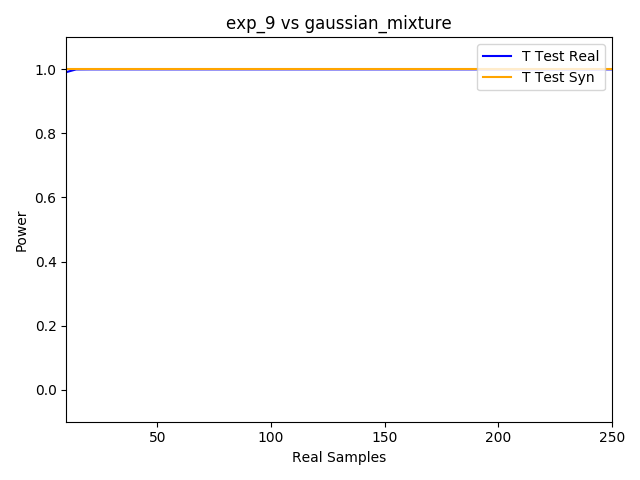
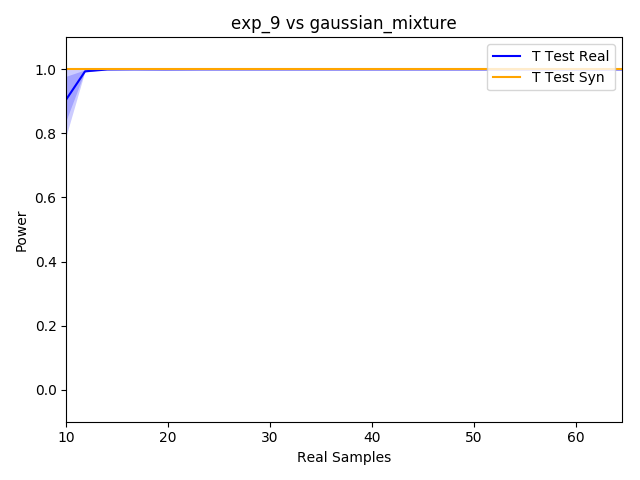
Rewrote README and replaced buggy true univariate sample size images in statistical testing.

diff --git a/README.md b/README.md
@@ -1,7 +1,87 @@
 # Synthetic Statistics
-This project explores the application of generative modeling techniques to statistical testing.
+This research project explores the application of generative modeling techniques to power analyses and statistical testing.
 
-### Objective
+## Synthetic Power Analyses
+> In a scientific study, one typically aims for a statistical power of 80%, implying that a true effect in the population is
+> detected with a 80% chance. Power computations allow researchers to compute the minimal number of subjects to obtain the
+> aimed statistical power. As such, power calculations avoid spending time and money on studies that are futile, and also
+> prevent wasting time and money adding extra subjects, when sufficient power was already available.
+
+> Mounting evidence over the last few years suggest that published neuroscience research suffer from low power, and especially
+> for published fMRI experiments. Not only does low power decrease the chance of detecting a true effect, it also reduces the
+> chance that a statistically significant result indicates a true effect ([Ioannidis, 2005](http://journals.plos.org/plosmedicine/article?id=10.1371/journal.pmed.0020124)). Put another way, findings with the
+> least power will be the least reproducible, and thus a (prospective) power analysis is a critical component of any paper.
+
+Source: [Power and sample size calculations for fMRI studies based on the prevalence of active peaks](https://www.biorxiv.org/content/biorxiv/early/2016/04/20/049429.full.pdf)
+
+> Our current scan rate is $563 per hour.
+
+Source: [University of Michigan Functional Magnetic Resonance Imaging Laboratory](http://fmri.research.umich.edu/users/billing.php)
+
+### Proposal
+Synthetic functional magnetic resonance images generated with [state-of-the-art generative modeling techniques](https://github.com/BlissChapman/ICW-fMRI-GAN) could serve as a low-cost replacement for pilot data used in power analyses.
+
+**WANTED:** the smallest sample size needed for a study with 80% power
+**NOT WANTED:**
+1) Wasted time/money on futile experiments
+2) Wasted resources on extra subjects
+3) Underpowered studies
+
+### Experiments
+We explore the proposal through univariate, multivariate, and neuroimaging experiments. In the figures below, if the synthetic and real curves are the same shape, then using synthetic data as a replacement for pilot data will yield a similar sample size requirement estimate as we would have achieved by using real data. Since we can synthesize cognitive process label combinations that do not exist in the original dataset, we can formulate power analyses with data that has never been collected before.
+
+###### [NULL] Gaussian(0, 1) vs Gaussian(0, 1) w/ 100k True Samples
+![](examples/test_time_sample_size_vs_power/gaussian_0_vs_gaussian_0.png)
+
+###### [NULL] Gaussian(0, 1) vs Gaussian(0, 1) w/ 100 True Samples
+![](examples/test_time_sample_size_vs_power/100_gaussian_0_vs_gaussian_0.png)
+
+###### [ALTERNATIVE] Gaussian(0, 1) vs Gaussian(1, 1) w/ 100k True Samples
+![](examples/test_time_sample_size_vs_power/gaussian_0_vs_gaussian_1.png)
+
+###### [ALTERNATIVE] Gaussian(0, 1) vs Gaussian(1, 1) w/ 100 True Samples
+![](examples/test_time_sample_size_vs_power/100_gaussian_0_vs_gaussian_1.png)
+
+###### [NULL] ChiSquare(9) vs ChiSquare(9) w/ 100k True Samples
+![](examples/test_time_sample_size_vs_power/chi_9_vs_chi_9.png)
+
+###### [NULL] ChiSquare(9) vs ChiSquare(9) w/ 100 True Samples
+![](examples/test_time_sample_size_vs_power/100_chi_9_vs_chi_9.png)
+
+###### [ALTERNATIVE] ChiSquare(9) vs Exp(9) w/ 100k True Samples
+![](examples/test_time_sample_size_vs_power/chi_9_vs_exp_9.png)
+
+###### [ALTERNATIVE] ChiSquare(9) vs Exp(9) w/ 100 True Samples
+![](examples/test_time_sample_size_vs_power/100_chi_9_vs_exp_9.png)
+
+###### [ALTERNATIVE] GaussianMix vs Exp(9) w/ 100k True Samples
+![](examples/test_time_sample_size_vs_power/gaussian_mix_vs_exp_9.png)
+
+###### [ALTERNATIVE] GaussianMix vs Exp(9) w/ 100 True Samples
+![](examples/test_time_sample_size_vs_power/100_gaussian_mix_vs_exp_9.png)
+
+###### [NULL] Visual vs Visual w/in Brainpedia
+![Visual vs Visual](examples/test_time_sample_size_vs_power/fmri_fdr_visual_vs_visual.png)
+
+###### [ALTERNATIVE] Visual vs Non-Visual w/in Brainpedia
+![Visual vs Non-Visual](examples/test_time_sample_size_vs_power/fmri_fdr_visual_vs_non_visual.png)
+
+##### Notes on Power Calculation
+**Univariate Power**
+1) Use bootstrap techniques to compute the distribution of the t test statistic.
+2) Compute p value for every test statistic.
+3) Power is approximately mean[1(p_i < alpha)]
+
+_NOTE: If the distribution is known to be Gaussian, we can directly compute the t test statistic without bootstrap techniques._
+
+**Multivariate Power**
+_[Discussion to come]_
+
+**fMRI Power**
+_[Discussion to come]_
+
+
+## Synthetic Statistical Testing
 Test whether two distributions P and Q are different based on samples drawn from each of them.
 
 ### Parametric Approach
@@ -33,15 +113,6 @@ The goal of this project is to show that sampling synthetic data from the underl
 
 ###### [ALTERNATIVE] Gaussian(0, 1) vs Gaussian(0.1, 1)
 ![](examples/true_sample_size_vs_power/gaussian_0_vs_gaussian_0_1.png)
-
-###### [NULL] [ZOOMED] Gaussian(0, 1) vs Gaussian(0, 1)
-![](examples/true_sample_size_vs_power/zoomed_gaussian_0_vs_gaussian_0.png)
-
-###### [NULL] [ZOOMED] Gaussian(0.1, 1) vs Gaussian(0.1, 1)
-![](examples/true_sample_size_vs_power/zoomed_gaussian_0_1_vs_gaussian_0_1.png)
-
-###### [ALTERNATIVE] [ZOOMED] Gaussian(0, 1) vs Gaussian(0.1, 1)
-![](examples/true_sample_size_vs_power/zoomed_gaussian_0_vs_gaussian_0_1.png)
 
 ###### [ALTERNATIVE] Gaussian(0, 1) vs GaussianMix
 ![](examples/true_sample_size_vs_power/gaussian_0_vs_gaussian_mix.png)
@@ -78,55 +149,3 @@ The goal of this project is to show that sampling synthetic data from the underl
 
 ###### [ALTERNATIVE] Visual vs NON-Visual
 ![](examples/true_sample_size_vs_power/fmri_visual_vs_non_visual.png)
-
-### Number of Test Time Samples vs Power
-#### Gaussians
-###### [NULL] Gaussian(0, 1) vs Gaussian(0, 1) w/ 100k True Samples
-![](examples/test_time_sample_size_vs_power/gaussian_0_vs_gaussian_0.png)
-
-###### [NULL] Gaussian(0, 1) vs Gaussian(0, 1) w/ 100 True Samples
-![](examples/test_time_sample_size_vs_power/100_gaussian_0_vs_gaussian_0.png)
-
-###### [ALTERNATIVE] Gaussian(0, 1) vs Gaussian(1, 1) w/ 100k True Samples
-![](examples/test_time_sample_size_vs_power/gaussian_0_vs_gaussian_1.png)
-
-###### [ALTERNATIVE] Gaussian(0, 1) vs Gaussian(1, 1) w/ 100 True Samples
-![](examples/test_time_sample_size_vs_power/100_gaussian_0_vs_gaussian_1.png)
-
-#### Non-Gaussian
-###### [NULL] ChiSquare(9) vs ChiSquare(9) w/ 100k True Samples
-![](examples/test_time_sample_size_vs_power/chi_9_vs_chi_9.png)
-
-###### [NULL] ChiSquare(9) vs ChiSquare(9) w/ 100 True Samples
-![](examples/test_time_sample_size_vs_power/100_chi_9_vs_chi_9.png)
-
-###### [ALTERNATIVE] ChiSquare(9) vs Exp(9) w/ 100k True Samples
-![](examples/test_time_sample_size_vs_power/chi_9_vs_exp_9.png)
-
-###### [ALTERNATIVE] ChiSquare(9) vs Exp(9) w/ 100 True Samples
-![](examples/test_time_sample_size_vs_power/100_chi_9_vs_exp_9.png)
-
-###### [ALTERNATIVE] GaussianMix vs Exp(9) w/ 100k True Samples
-![](examples/test_time_sample_size_vs_power/gaussian_mix_vs_exp_9.png)
-
-###### [ALTERNATIVE] GaussianMix vs Exp(9) w/ 100 True Samples
-![](examples/test_time_sample_size_vs_power/100_gaussian_mix_vs_exp_9.png)
-
-#### Neuroscientific Application
-> Mounting evidence over the last few years suggest that published neuroscience research suffer from low power, and especially
-> for published fMRI experiments. Not only does low power decrease the chance of detecting a true effect, it also reduces the
-> chance that a statistically significant result indicates a true effect ([Ioannidis, 2005](http://journals.plos.org/plosmedicine/article?id=10.1371/journal.pmed.0020124)). Put another way, findings with the
-> least power will be the least reproducible, and thus a (prospective) power analysis is a critical component of any paper.
-<!--
-> In a scientific study, one typically aims for a statistical power of 80%, implying that a true effect in the population is
-> detected with a 80% chance. Power computations allow researchers to compute the minimal number of subjects to obtain the
-> aimed statistical power. As such, power calculations avoid spending time and money on studies that are futile, and also
-> prevent wasting time and money adding extra subjects, when sufficient power was already available. -->
-
-Source: [Power and sample size calculations for fMRI studies based on the prevalence of active peaks](https://www.biorxiv.org/content/biorxiv/early/2016/04/20/049429.full.pdf)
-
-###### [NULL] Visual vs Visual w/in Brainpedia
-![Visual vs Visual](examples/test_time_sample_size_vs_power/fmri_fdr_visual_vs_visual.png)
-
-###### [ALTERNATIVE] Visual vs Non-Visual w/in Brainpedia
-![Visual vs Non-Visual](examples/test_time_sample_size_vs_power/fmri_fdr_visual_vs_non_visual.png)
